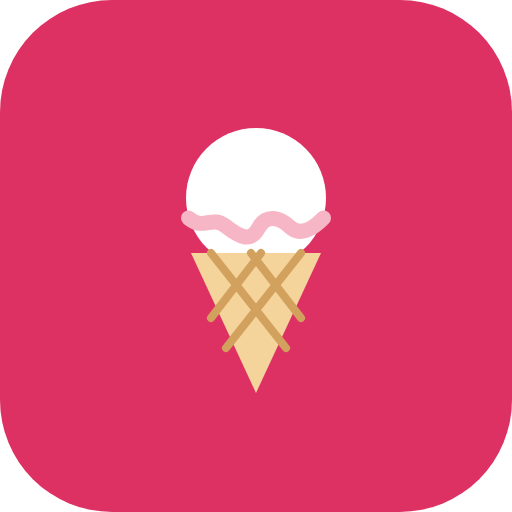
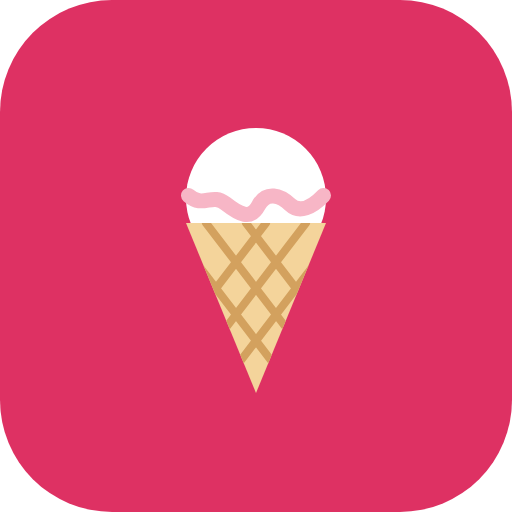
Sink the scoops into the cone and the cup
The bottom scoop only overlapped the rim and looked set on top of its
container. It now sits half inside the cone and deeper in the cup,
showing just the dome. The logo cone rises to hold its scoop the same
way, with the waffle lines clipped to the cone.

Claude-Session: https://claude.ai/code/session_01UYdskRvzJ89MrK5Tq4PESc

Changed region(s): [[0.3438, 0.3438, 0.6562, 0.75]]

diff --git a/app/src/components/IceCream.tsx b/app/src/components/IceCream.tsx
@@ -26,7 +26,8 @@ export function IceCream({
   const n = scoops.length;
   const bottomCy = 3 + r + (n - 1) * step;
   const cone = kind === "cone";
-  const baseY = bottomCy + (cone ? 5 : 3);
+  // The bottom scoop sinks into its container: half into the cone, more into the cup
+  const baseY = bottomCy + (cone ? 1 : -3);
   const height = baseY + (cone ? 34 : 24) + 1;
 
   return (
